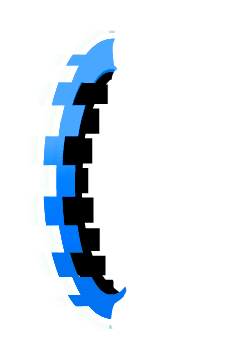
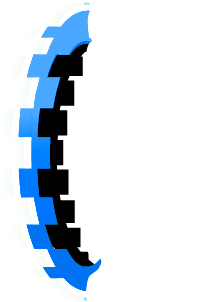
resize sprites to canon size [untested]

Changed region(s): [[0.0891, 0.0, 0.505, 1.0]]

diff --git a/src/EditorUI.cpp b/src/EditorUI.cpp
@@ -23,6 +23,7 @@ class $modify(EditButtonBar)
 {
     void loadFromItems(CCArray *objects, int rows, int columns, bool keepPage)
     {
+        // TODO i dont think this works when i dont have DevTools
         if (getID() != "portal-tab-bar")
         {
             EditButtonBar::loadFromItems(objects, rows, columns, keepPage);
